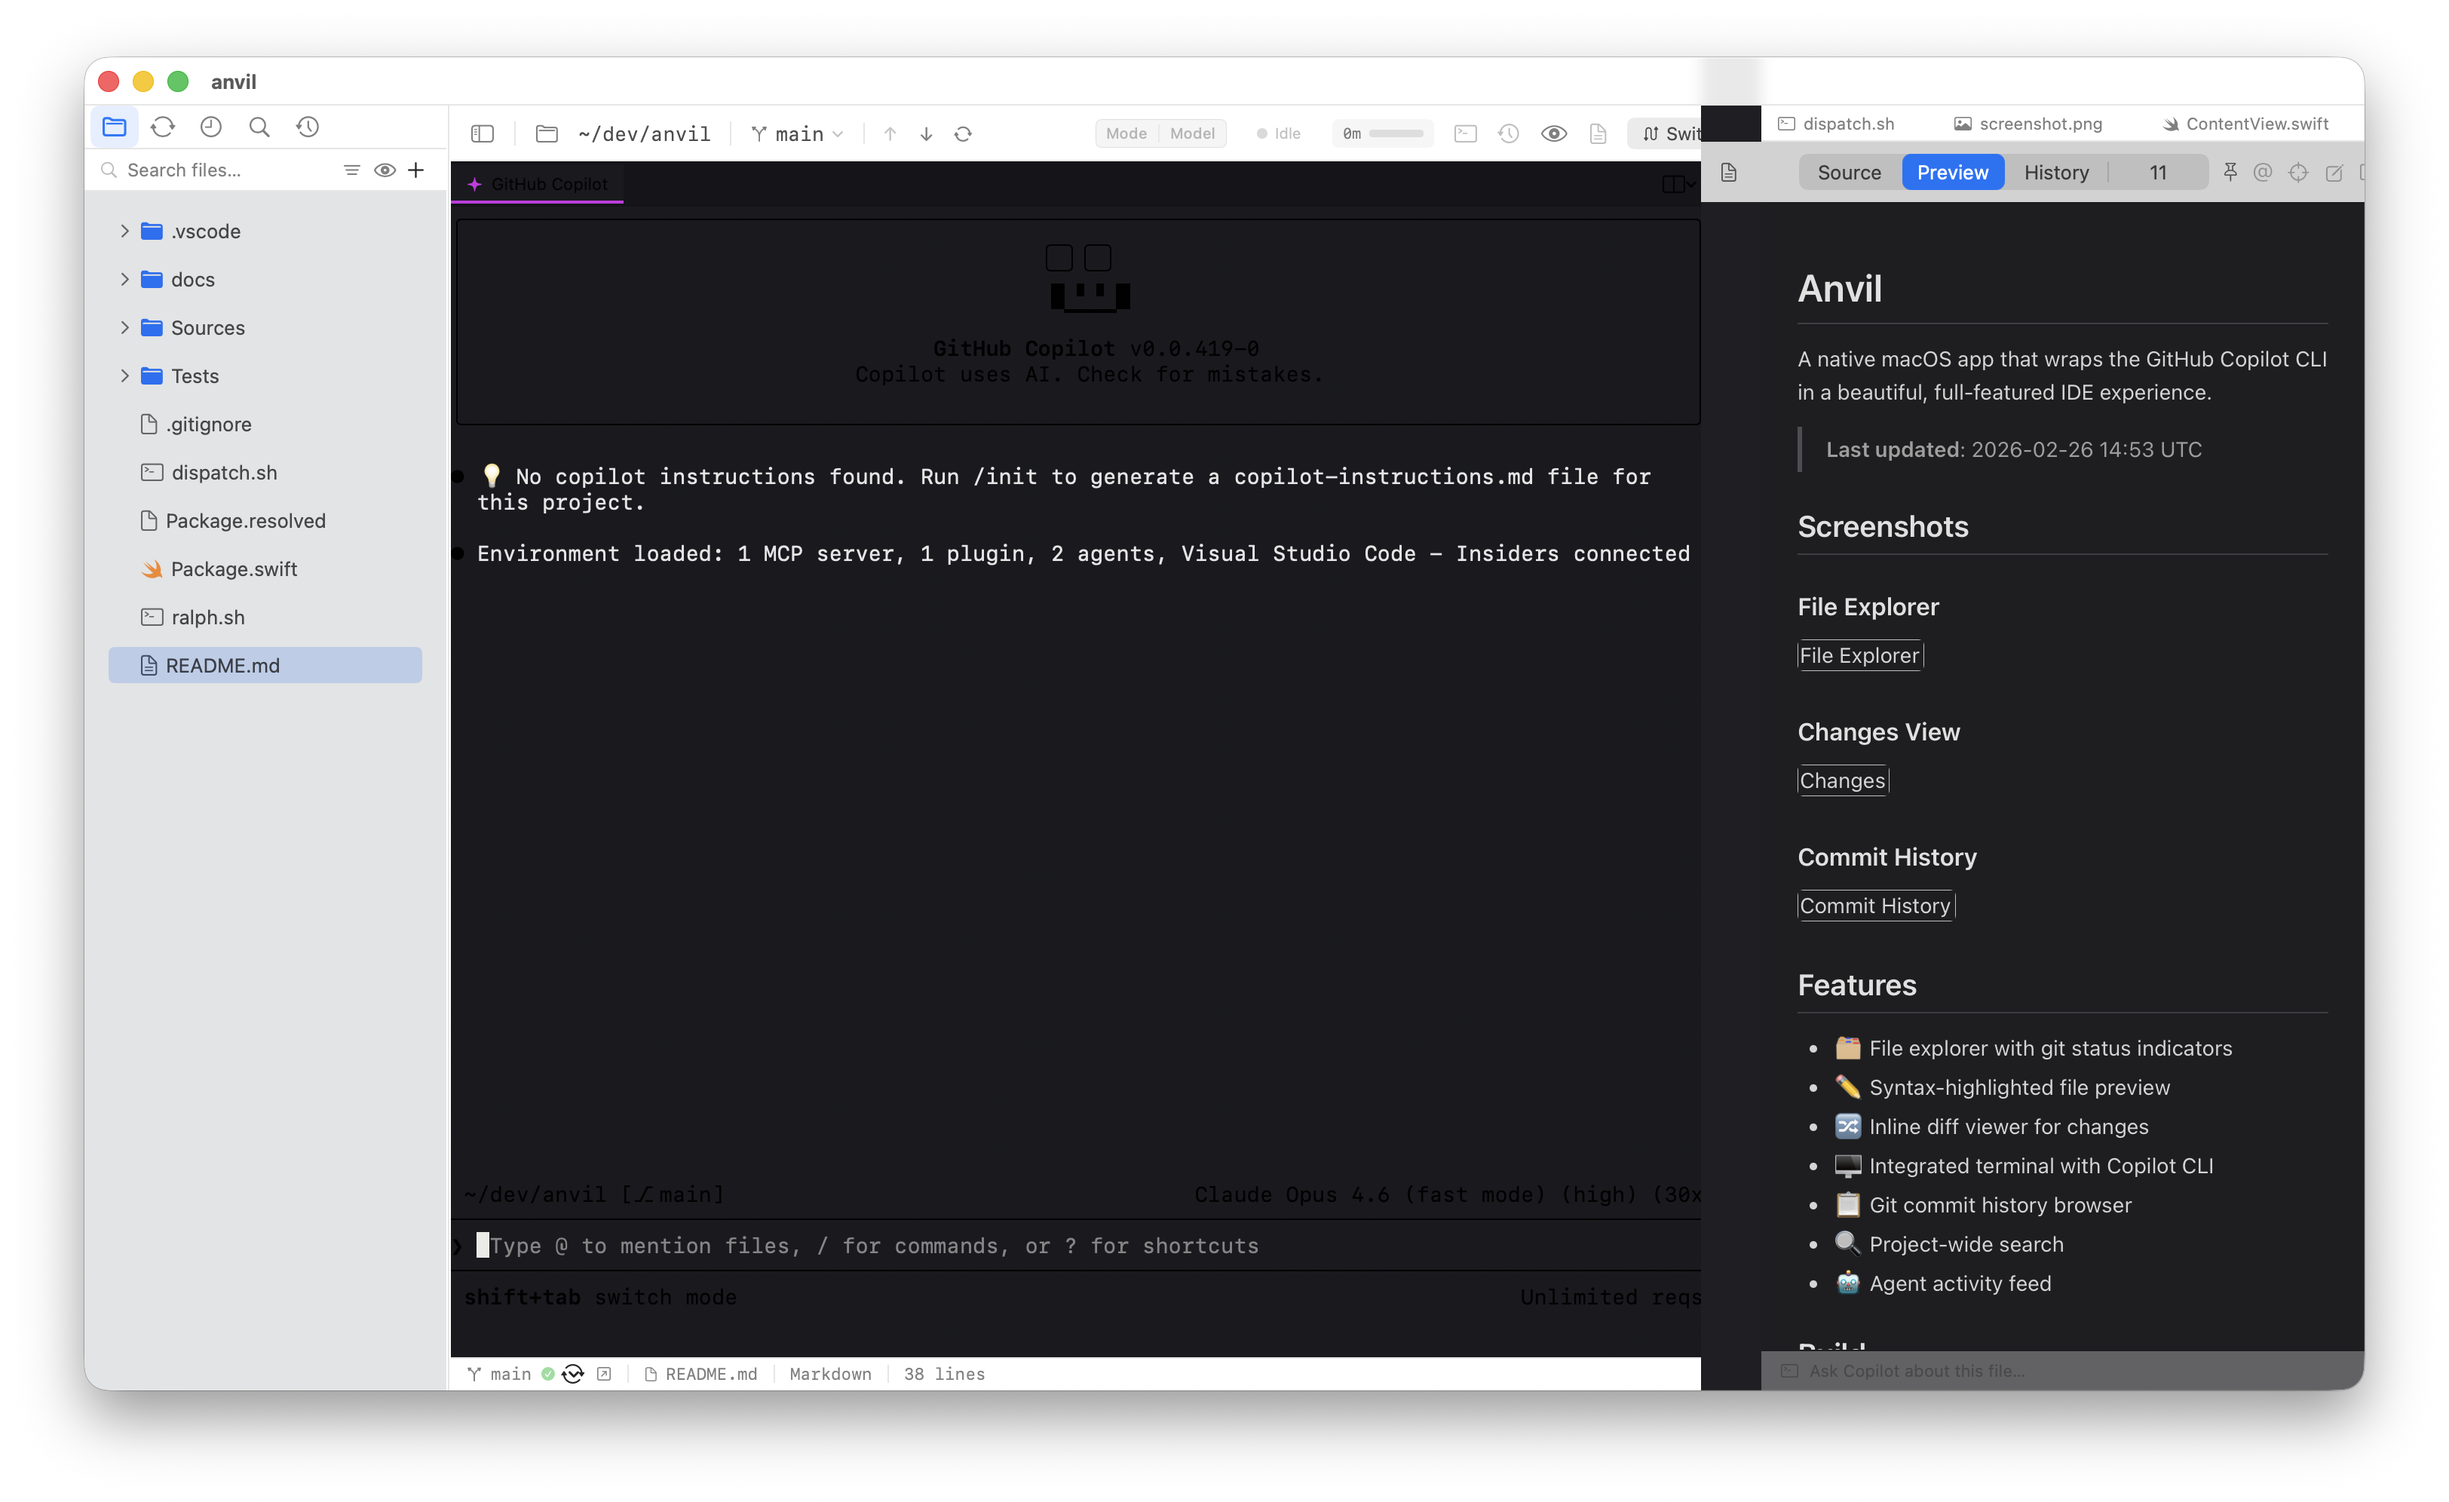
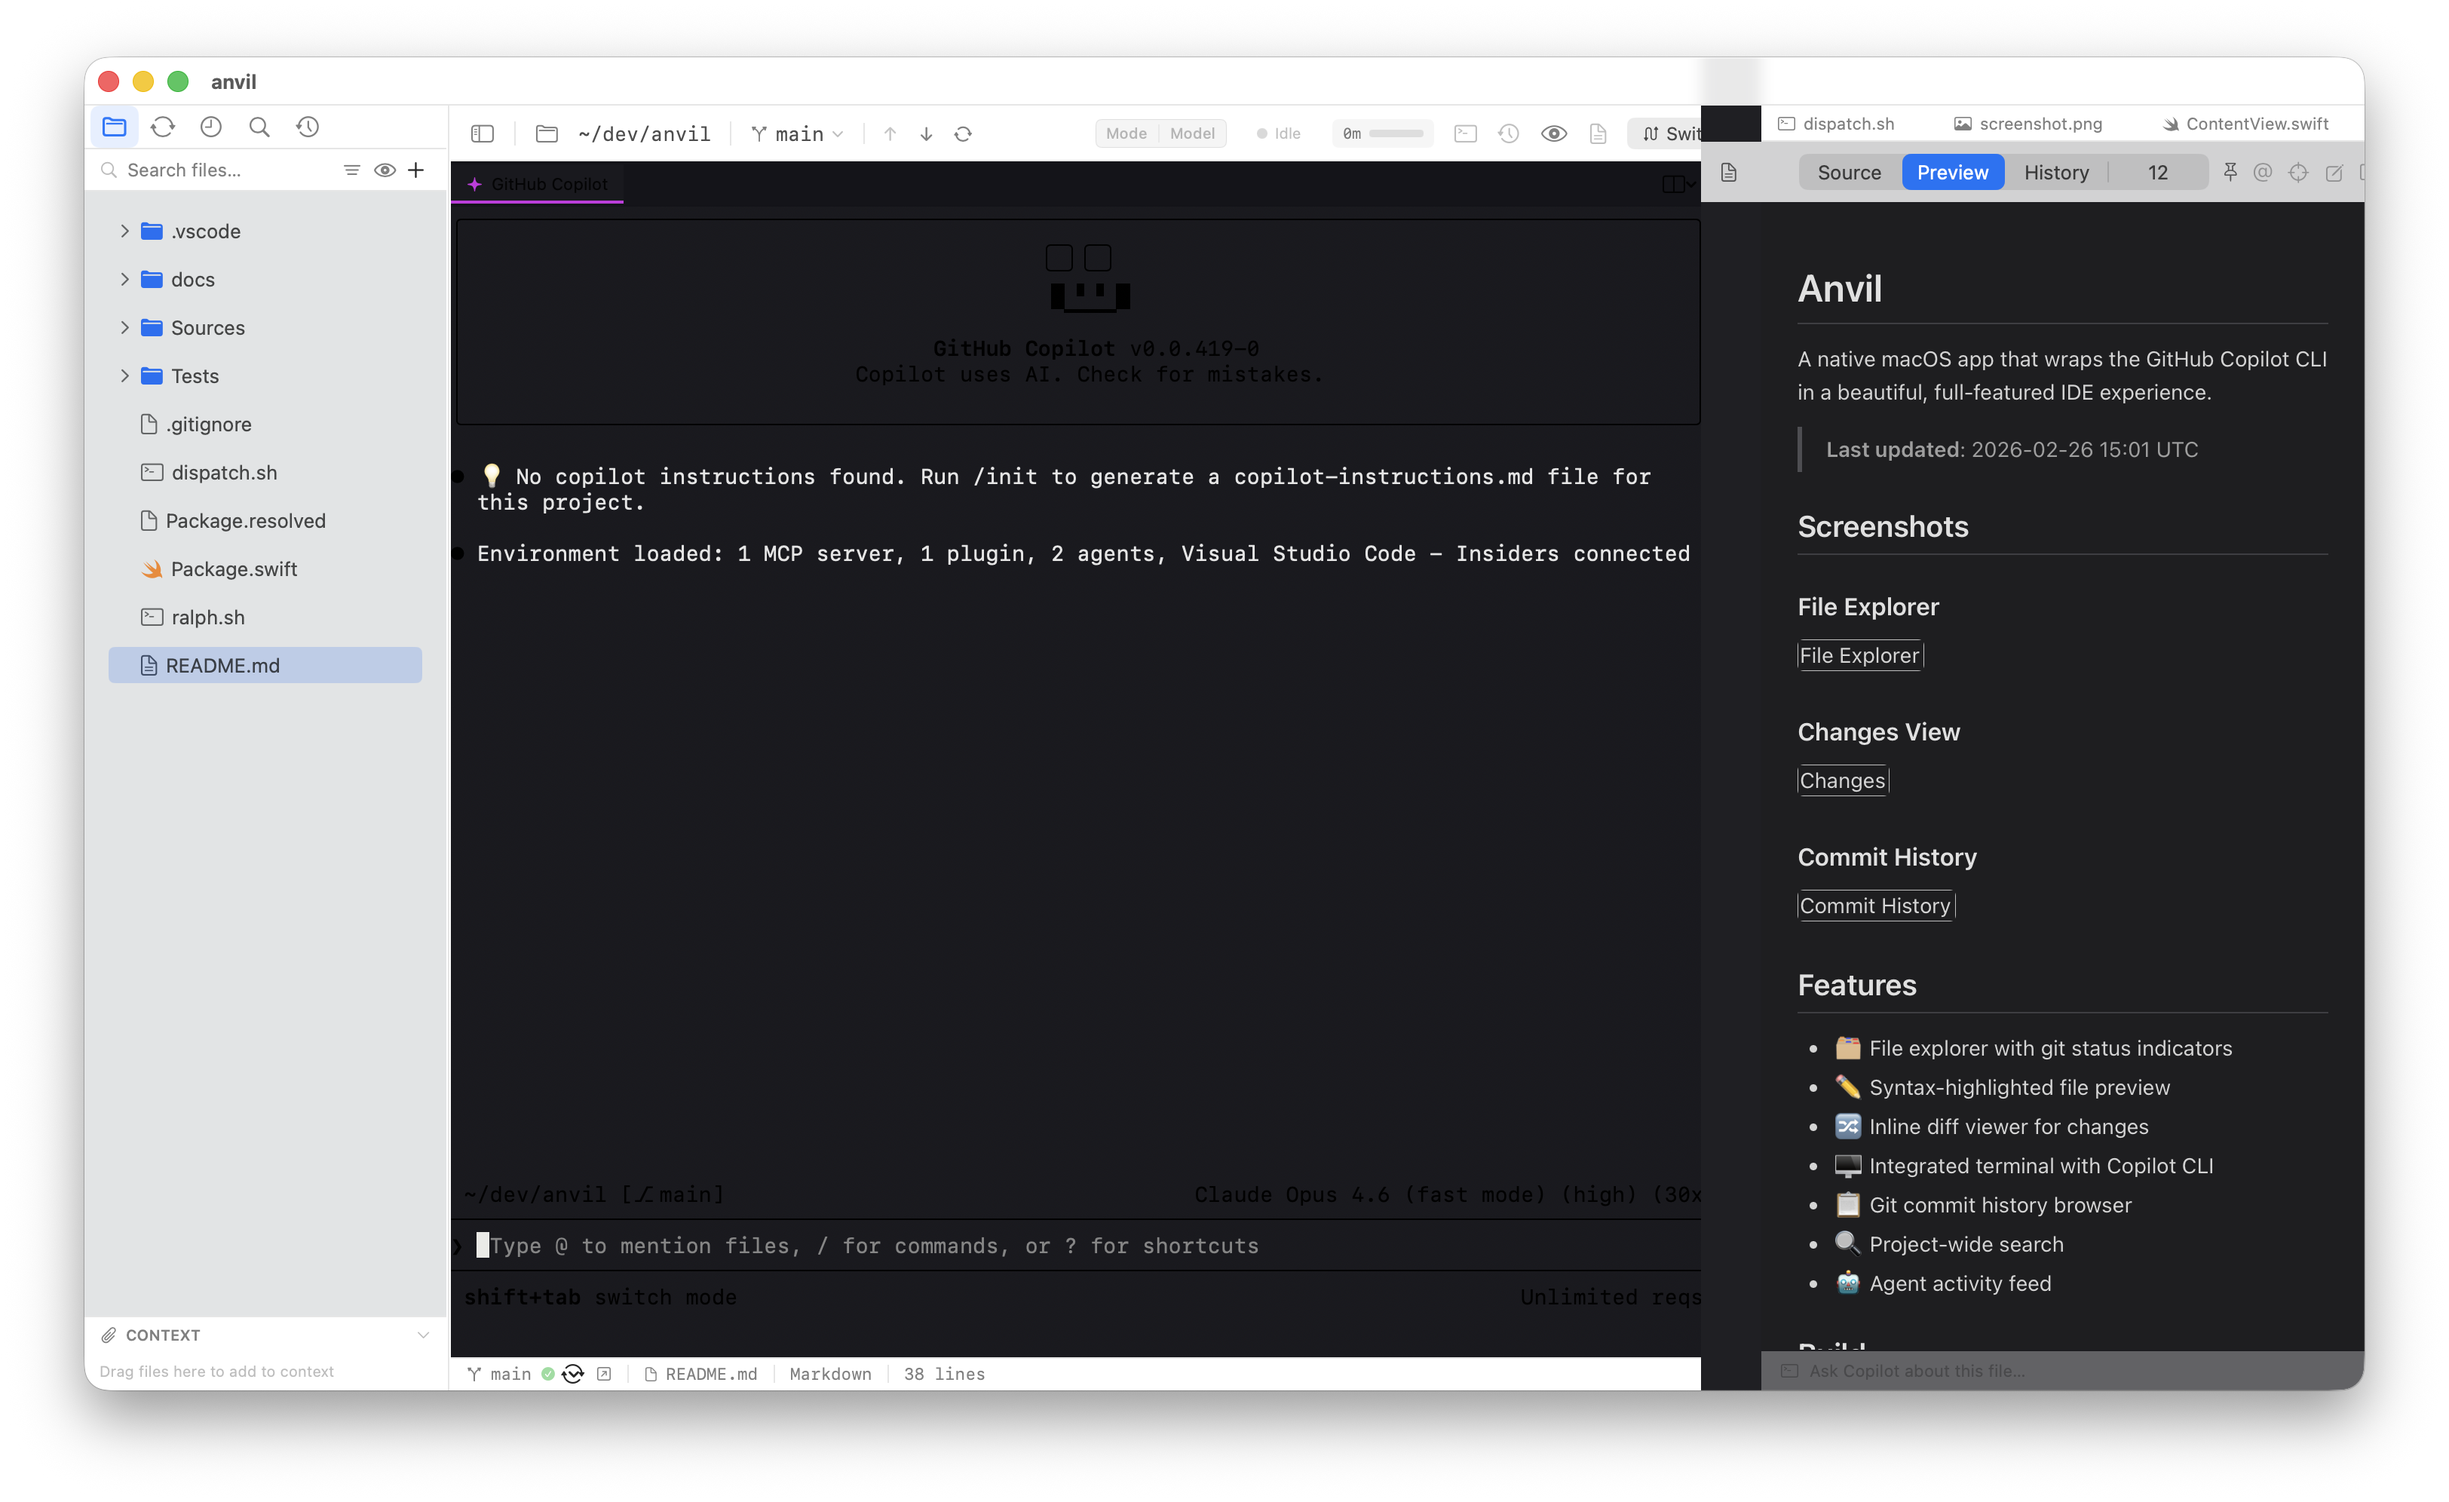
docs: update app screenshots and README (2026-02-26 15:07 UTC)

Changed region(s): [[0.0311, 0.8715, 0.1866, 0.9337], [0.8707, 0.2801, 0.9018, 0.3112]]

diff --git a/README.md b/README.md
@@ -2,7 +2,7 @@
 
 A native macOS app that wraps the GitHub Copilot CLI in a beautiful, full-featured IDE experience.
 
-> **Last updated**: 2026-02-26 15:01 UTC
+> **Last updated**: 2026-02-26 15:07 UTC
 
 ## Screenshots
 
